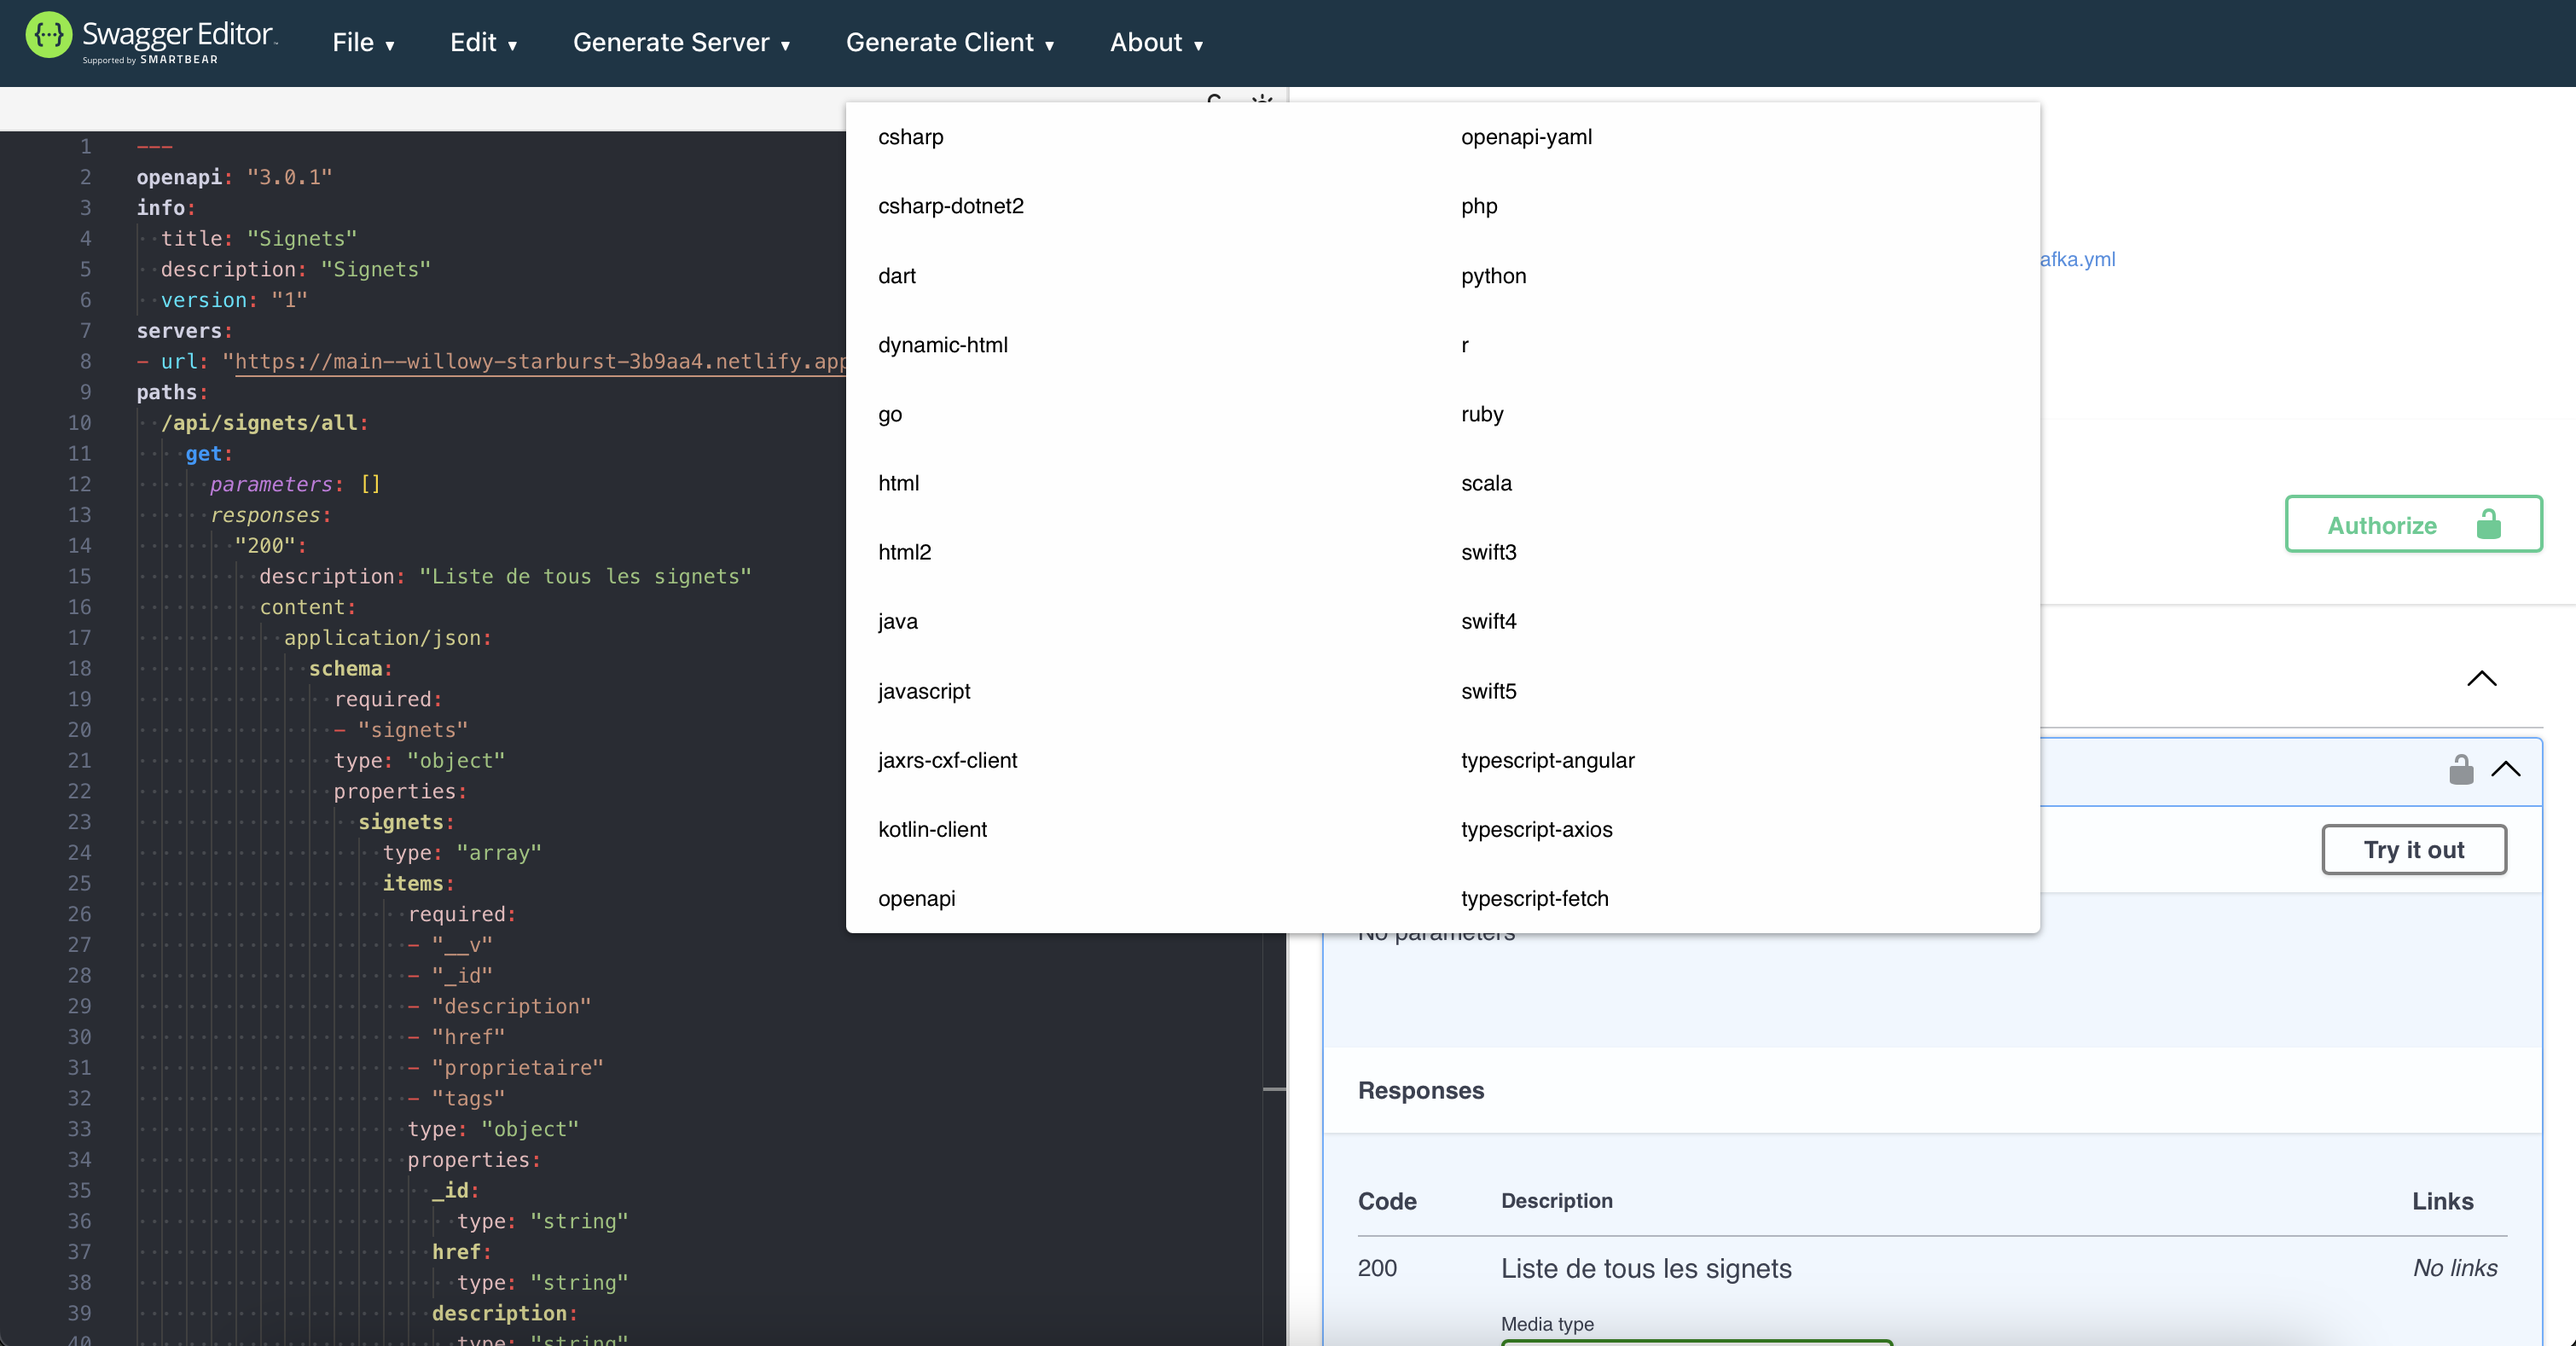
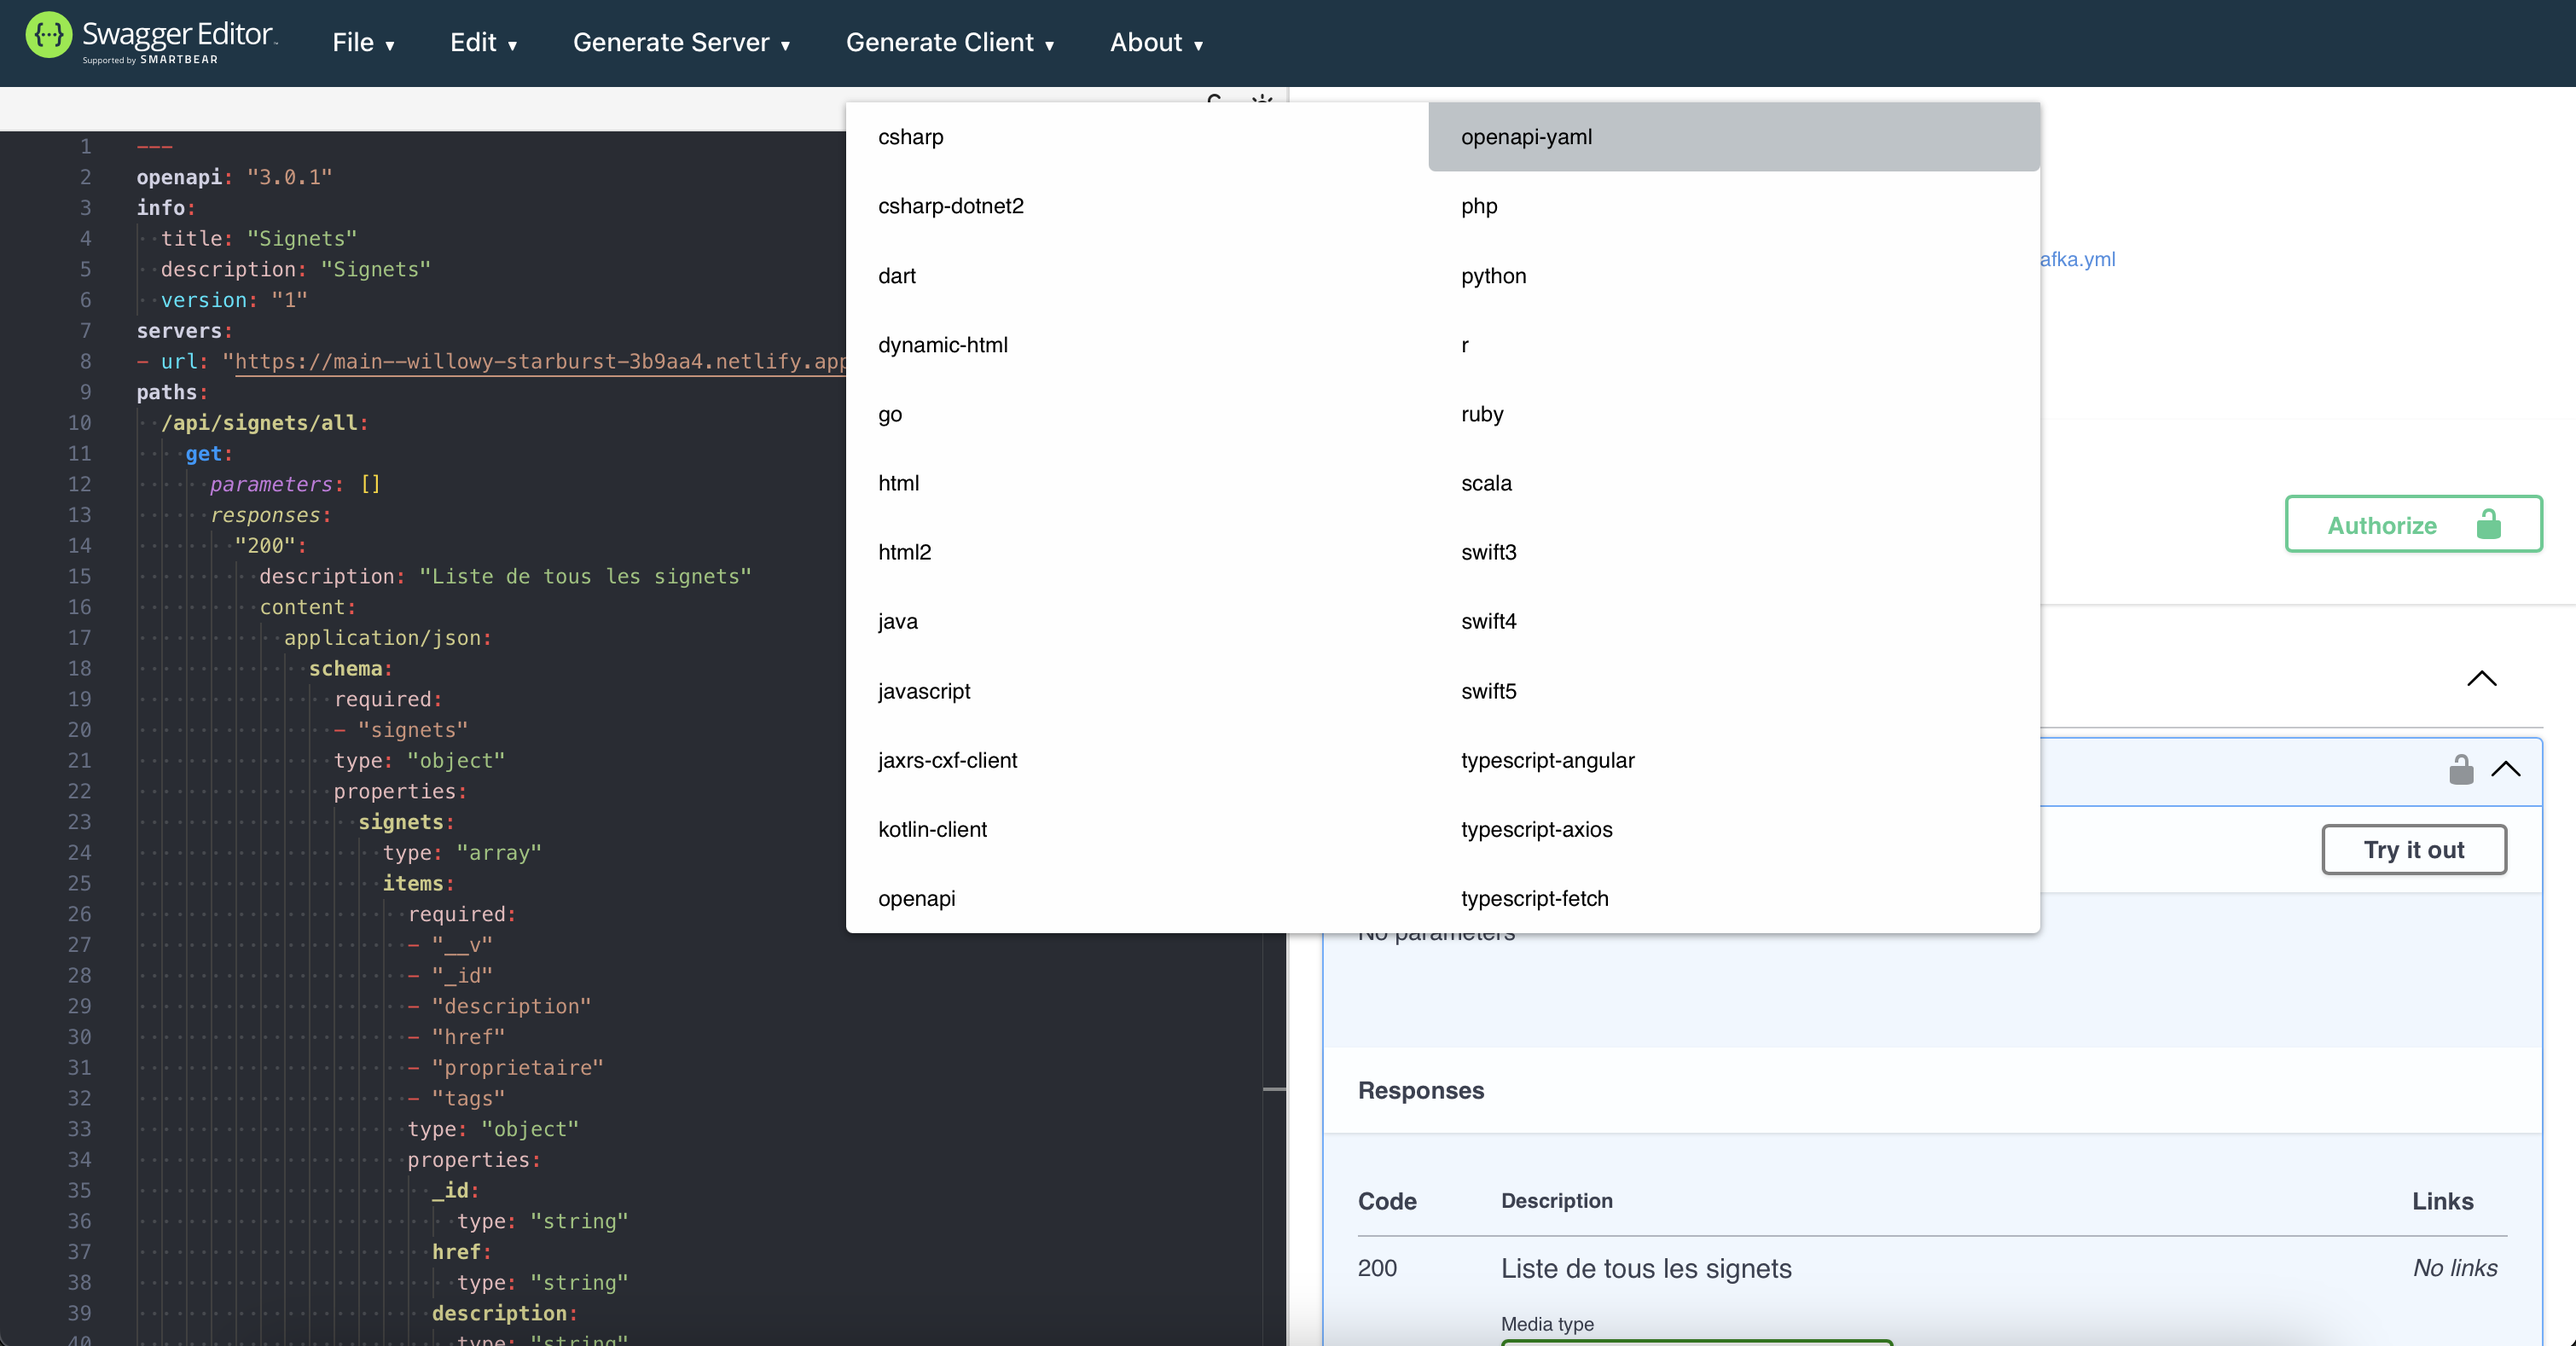
version finale documentation api

Changed region(s): [[0.5291, 0.0621, 0.8093, 0.1553]]

diff --git a/wiki/documentation.md b/wiki/documentation.md
@@ -6,9 +6,15 @@
 
     ![SwaggerEditor](./images/swaggereditor1.png)
 
-1. Exporter votre documentation en format html.  
+1. Exporter votre documentation en format yaml.  
 
     ![SwaggerEditor](./images/swaggereditor2.png)
+
+1. Convertir le fichier yaml en html avec redoc-cli.  
+
+    ``` nodejsrepl title="console"
+    npx @redocly/cli build-docs -o index.html api.yaml
+    ```
 
 1. Copier le index.html dans le dossier 'src' de votre projet. 
 
@@ -19,7 +25,8 @@
     ```javascript
     // rend disponible la documentation de l'interface logicielle
     app.get('/api-docs/', async (req, res) => {
-        res.set('Content-Type', 'text/html; charset=utf-8');
+        res.set('Content-Security-Policy', 'script-src blob:');
+        res.set('Content-Security-Policy', 'worker-src blob:');
         res.sendFile(path.join(__dirname, 'index.html'));
     });
 
@@ -42,21 +49,9 @@
     node_bundler = "esbuild"
     [[redirects]]
     force = true
-    from = "/api/*"
+    from = "/*"
     status = 200
     to = "/.netlify/functions/api/:splat"
-    # Ajout du redirect vers la documentation de l'interface logicielle
-    [[redirects]]
-    force = true
-    from = "/api-docs/*"
-    status = 200
-    to = "/.netlify/functions/api/api-docs/:splat"
-    # Ajout du redirect vers la documentation de l'interface logicielle à partir de la racine
-    [[redirects]]
-    force = true
-    from = "/"
-    status = 200
-    to = "/.netlify/functions/api/api-docs/"
     ```
 
 1. Pousser les changements dans le dépôt git et vérifier que la documentation est disponible sur le serveur netlify.  

diff --git a/wiki/netlify.md b/wiki/netlify.md
@@ -68,7 +68,7 @@ Netlify peut exécuter votre API node.js à l'aide de la fonctionnalité _server
         node_bundler = "esbuild"
     [[redirects]]
         force = true
-        from = "/api/*"
+        from = "/*"
         status = 200
         to = "/.netlify/functions/api/:splat"
     ```  
